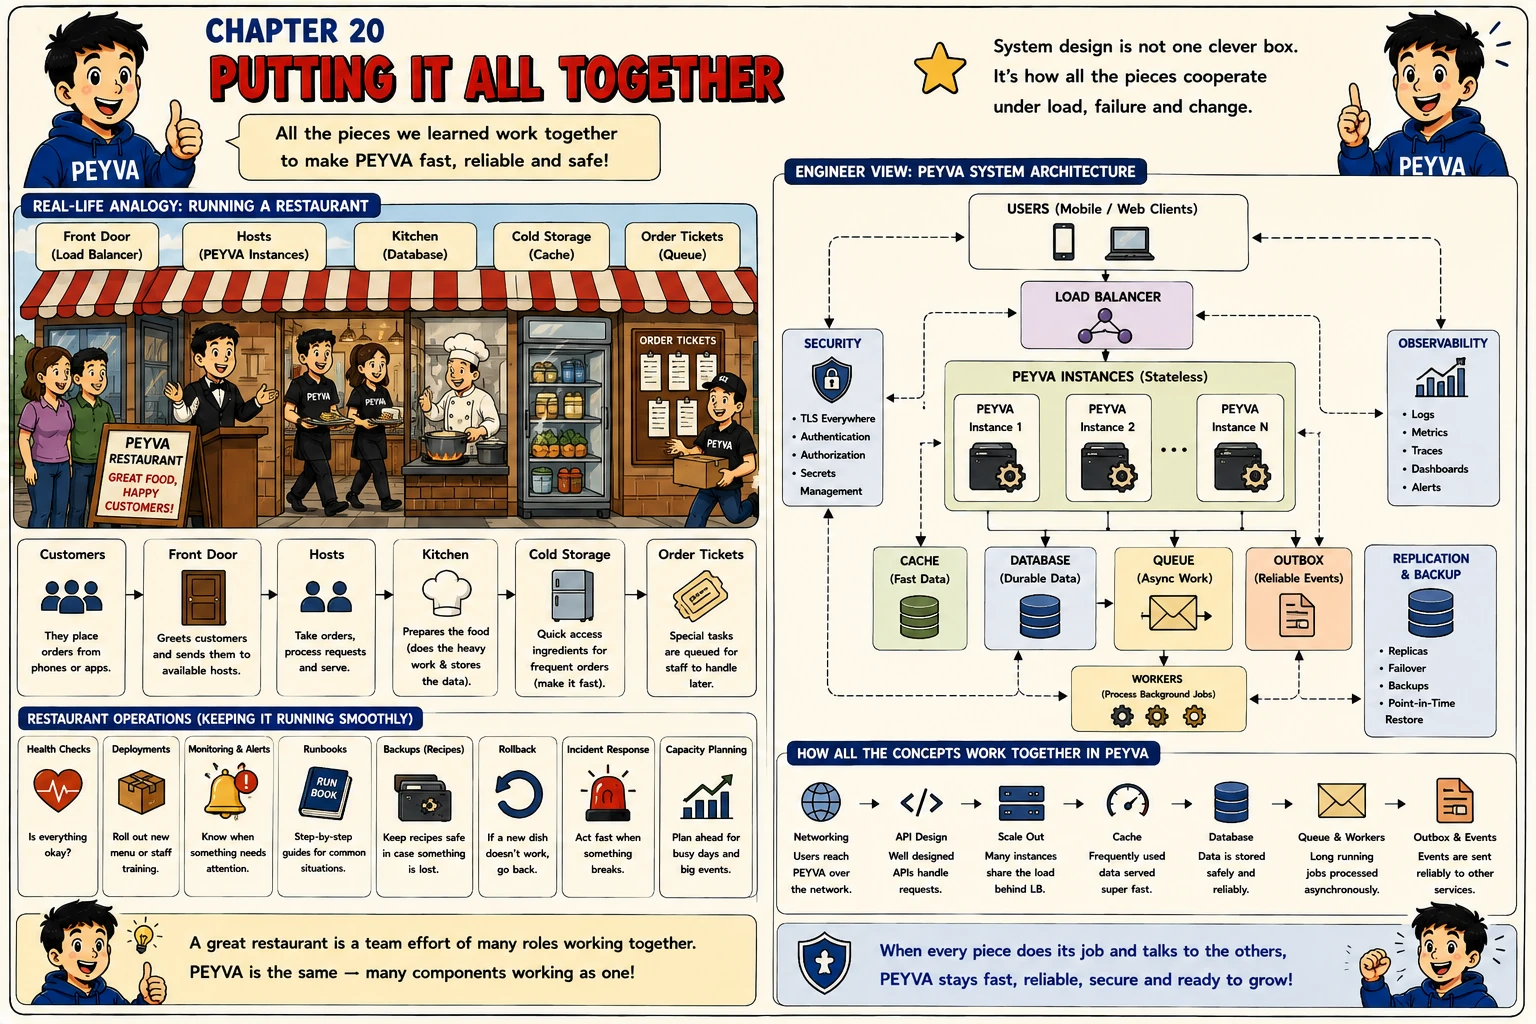
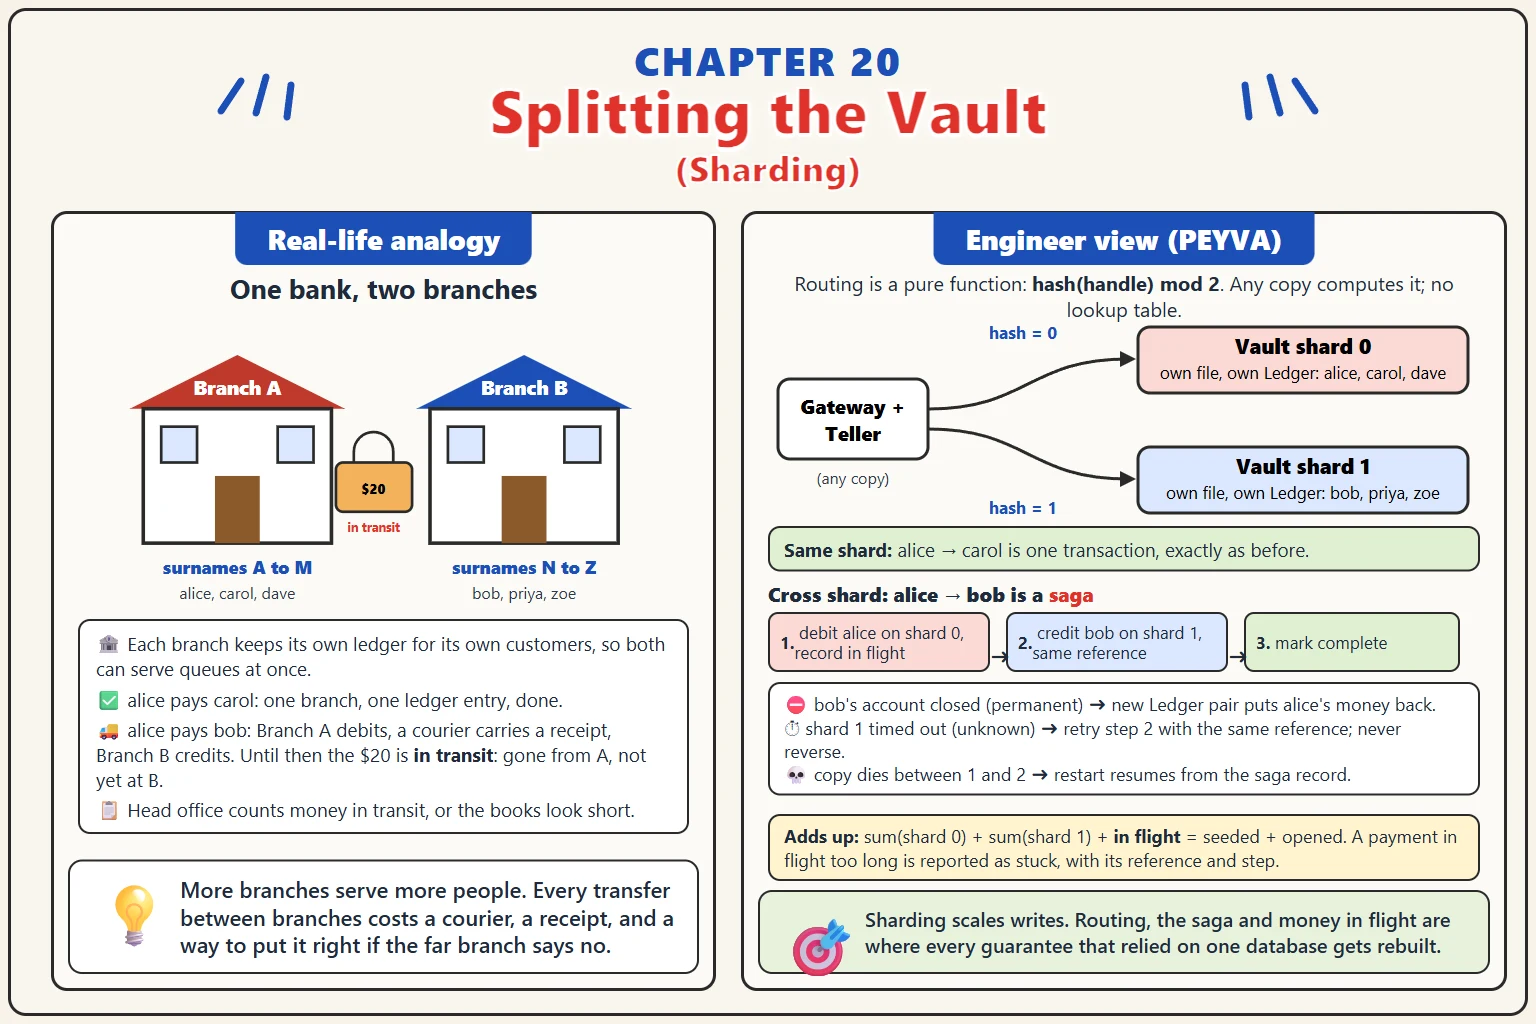
images: name the new illustrations like the rest
chapter-9-retries.webp is chapter-9.webp, chapter-20-sharding.webp is
chapter-20.webp, and the capacity estimation illustration, repainted as a
sidebar, is sidebar-10.webp. The two originals this overwrites are still
in history at e628575: the capacity one lives on as sidebar-10, and the
finale's as chapter-21 with its number corrected.

diff --git a/docs/chapter-10.html b/docs/chapter-10.html
@@ -157,8 +157,8 @@
     <section class="block aside">
       <h2>Sidebar: How Big Is PEYVA? (Capacity Estimation) <span class="badge badge-aside">Sidebar</span></h2>
       <figure class="hero-panel aside-panel">
-        <a class="hero-link" href="images/chapter-10-sidebar.webp" target="_blank" rel="noopener"><img src="images/chapter-10-sidebar.webp" alt="Capacity estimation helps us choose the right technology, plan scaling, and control cost: before we build."></a>
-        <figcaption>Capacity estimation helps us choose the right technology, plan scaling, and control cost: before we build. <a class="hero-expand-hint" href="images/chapter-10-sidebar.webp" target="_blank" rel="noopener">Click to view full size</a></figcaption>
+        <a class="hero-link" href="images/sidebar-10.webp" target="_blank" rel="noopener"><img src="images/sidebar-10.webp" alt="Capacity estimation helps us choose the right technology, plan scaling, and control cost: before we build."></a>
+        <figcaption>Capacity estimation helps us choose the right technology, plan scaling, and control cost: before we build. <a class="hero-expand-hint" href="images/sidebar-10.webp" target="_blank" rel="noopener">Click to view full size</a></figcaption>
       </figure>
       <ul class="why-list">
         <li>An estimate is a handful of assumptions multiplied out: users, actions per user per day, a peak factor, a record size. Each is a guess, and the value of the exercise is writing the guesses down where they can be argued with.</li><li>A hundred thousand users making three payments a day is three hundred thousand a day: about three and a half a second on average, thirty-five at a ten-times peak. At a kilobyte per payment, two years of Ledger is two hundred gigabytes.</li><li>Peak is what you build for, not average. Traffic is not flat, and a system sized for the average is down at the busiest hour, which is the hour that matters.</li><li>Being roughly right before building beats being exactly right after. The point is the order of magnitude: whether one store on one laptop is enough, or whether the next chapter&#39;s copies are needed at all.</li><li>Sensitivity matters more than the number. Knowing which single assumption moves the answer most tells you which one to go and confirm.</li>

diff --git a/docs/chapter-9.html b/docs/chapter-9.html
@@ -139,8 +139,8 @@
   </div>
 
   <figure class="hero-panel">
-    <a class="hero-link" href="images/chapter-9-retries.webp" target="_blank" rel="noopener"><img src="images/chapter-9-retries.webp" alt="Every call over a network has three outcomes: it worked, it failed, and nobody knows. The third is the one you design for."></a>
-    <figcaption>Every call over a network has three outcomes: it worked, it failed, and nobody knows. The third is the one you design for. <a class="hero-expand-hint" href="images/chapter-9-retries.webp" target="_blank" rel="noopener">Click to view full size</a></figcaption>
+    <a class="hero-link" href="images/chapter-9.webp" target="_blank" rel="noopener"><img src="images/chapter-9.webp" alt="Every call over a network has three outcomes: it worked, it failed, and nobody knows. The third is the one you design for."></a>
+    <figcaption>Every call over a network has three outcomes: it worked, it failed, and nobody knows. The third is the one you design for. <a class="hero-expand-hint" href="images/chapter-9.webp" target="_blank" rel="noopener">Click to view full size</a></figcaption>
   </figure>
 
   

diff --git a/docs/chapter-20.html b/docs/chapter-20.html
@@ -139,8 +139,8 @@
   </div>
 
   <figure class="hero-panel">
-    <a class="hero-link" href="images/chapter-20-sharding.webp" target="_blank" rel="noopener"><img src="images/chapter-20-sharding.webp" alt="Sharding = each store holds some of the accounts. Routing decides which, and cross-shard payments pay for the split."></a>
-    <figcaption>Sharding = each store holds some of the accounts. Routing decides which, and cross-shard payments pay for the split. <a class="hero-expand-hint" href="images/chapter-20-sharding.webp" target="_blank" rel="noopener">Click to view full size</a></figcaption>
+    <a class="hero-link" href="images/chapter-20.webp" target="_blank" rel="noopener"><img src="images/chapter-20.webp" alt="Sharding = each store holds some of the accounts. Routing decides which, and cross-shard payments pay for the split."></a>
+    <figcaption>Sharding = each store holds some of the accounts. Routing decides which, and cross-shard payments pay for the split. <a class="hero-expand-hint" href="images/chapter-20.webp" target="_blank" rel="noopener">Click to view full size</a></figcaption>
   </figure>
 
   

diff --git a/site/content/roadmap.go b/site/content/roadmap.go
@@ -9,8 +9,8 @@ type RoadmapEntry struct {
 // whose Number has no matching ChapterContent in All render as
 // disabled/non-clickable in the sidebar. Titles match the exact wording
 // baked into each chapter's hero image (docs/images/chapter-<N>.webp) where
-// one exists. Chapters 9 and 20 replaced or displaced illustrated chapters,
-// and chapter 21 reuses the finale's illustration with its number corrected.
+// one exists. Chapter 21 reuses the finale's illustration with its number
+// corrected; the capacity estimation illustration lives on as sidebar-10.
 var Roadmap = []RoadmapEntry{
 	{0, "What Are We Building?"},
 	{1, "Inside One Computer"},

diff --git a/site/content/chapter10.go b/site/content/chapter10.go
@@ -23,7 +23,7 @@ var Chapter10 = ChapterContent{
 
 	Aside: &Aside{
 		Title:       "How Big Is PEYVA? (Capacity Estimation)",
-		HeroImage:   "images/chapter-10-sidebar.webp",
+		HeroImage:   "images/sidebar-10.webp",
 		HeroCaption: "Capacity estimation helps us choose the right technology, plan scaling, and control cost: before we build.",
 		Why: []string{
 			"An estimate is a handful of assumptions multiplied out: users, actions per user per day, a peak factor, a record size. Each is a guess, and the value of the exercise is writing the guesses down where they can be argued with.",

diff --git a/site/content/chapter20.go b/site/content/chapter20.go
@@ -9,7 +9,7 @@ var Chapter20 = ChapterContent{
 	Difficulty: "Advanced",
 	QuickTip:   "A payment inside one shard is a transaction. A payment across two is a saga. Design so most are the first kind.",
 
-	HeroImage:   "images/chapter-20-sharding.webp",
+	HeroImage:   "images/chapter-20.webp",
 	HeroCaption: "Sharding = each store holds some of the accounts. Routing decides which, and cross-shard payments pay for the split.",
 
 	Why: []string{

diff --git a/site/content/chapter09.go b/site/content/chapter09.go
@@ -9,7 +9,7 @@ var Chapter09 = ChapterContent{
 	Difficulty: "Intermediate",
 	QuickTip:   "A retry without an idempotency key is a duplicate payment with extra steps.",
 
-	HeroImage:   "images/chapter-9-retries.webp",
+	HeroImage:   "images/chapter-9.webp",
 	HeroCaption: "Every call over a network has three outcomes: it worked, it failed, and nobody knows. The third is the one you design for.",
 
 	Why: []string{
